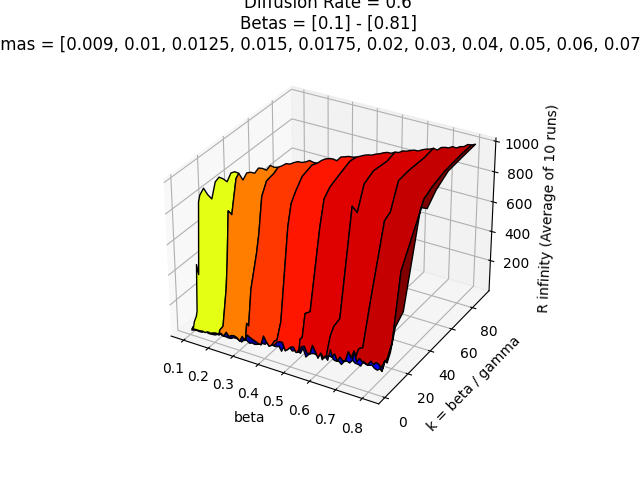
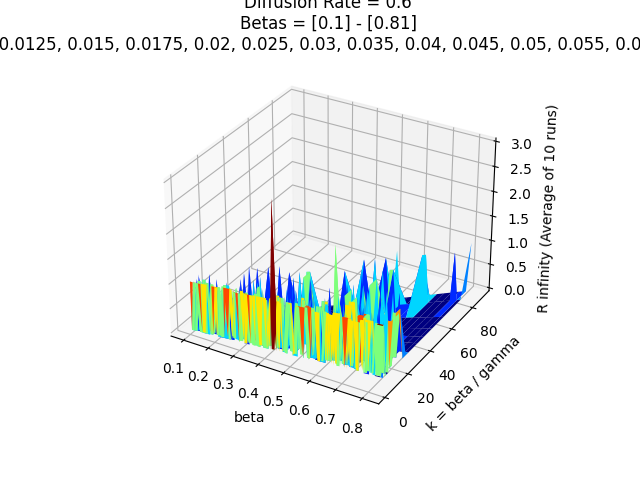
Done

diff --git a/HW1/HW1.py b/HW1/HW1.py
@@ -26,8 +26,7 @@ class DiseaseSpreading:
         self.betas = np.zeros((72, 1))
         for i in range(72):
             self.betas[i] = 0.1 + i * 0.01
-        print(self.betas)
-        self.gammas = [0.009, 0.01, 0.0125, 0.015, 0.0175, 0.02, 0.03, 0.04, 0.05, 0.06, 0.07, 0.08]
+        self.gammas = [0.009, 0.01, 0.0125, 0.015, 0.0175, 0.02, 0.025, 0.03, 0.035, 0.04, 0.045, 0.05, 0.055, 0.06, 0.065, 0.07, 0.075, 0.08]
         self.R_infinity = np.zeros((len(self.betas), len(self.gammas)))
 
     def initialize_agents(self, distribution_index=0.9):
@@ -176,10 +175,10 @@ class DiseaseSpreading:
                 time_step = 0
                 nr_rec = np.zeros((self.time_steps, 1))
                 while (time_step < self.time_steps and stop == False):
-                    print(sum(self.infected))
-                    print("Time Step = " + str(time_step))
-                    print("beta = " + str(self.beta))
-                    print("gamma = " + str(self.gamma))
+                    #print(sum(self.infected))
+                    #print("Time Step = " + str(time_step))
+                    #print("beta = " + str(self.beta))
+                    #print("gamma = " + str(self.gamma))
                     self.step()
                     nr_rec[time_step] = sum(self.recovered)
                     time_step += 1
@@ -382,6 +381,7 @@ def task4():
     threads = list()
 
     for i in range(9):
+        print("CURRENT PROCESS: " + str(i) + " of " + "9")
         for j in range(i * 8, 8 + i * 8):
             queues.append(Queue())
             threads.append(Process(target=SIR.generate_Rinf_for_gamma, args=(queues[j], 10, j)))
@@ -394,7 +394,7 @@ def task4():
     fig = plt.figure()
     ax = plt.axes(projection="3d")
     plt.title("Diffusion Rate = " + str(SIR.d) + "\nBetas = " + str(SIR.betas[0]) + " - " + str(SIR.betas[-1]) +"\nGammas = " + str(SIR.gammas))
-    ax.plot_surface(SIR.betas, k_values, SIR.R_infinity, cmap=cm.jet, rstride=1, cstride=1, antialiased=True)
+    ax.plot_surface(SIR.betas, k_values, SIR.R_infinity, cmap=cm.jet, antialiased=True)
     ax.set_xlabel('beta')
     ax.set_ylabel('k = beta / gamma')
     ax.set_zlabel('R infinity (Average of 10 runs)')
